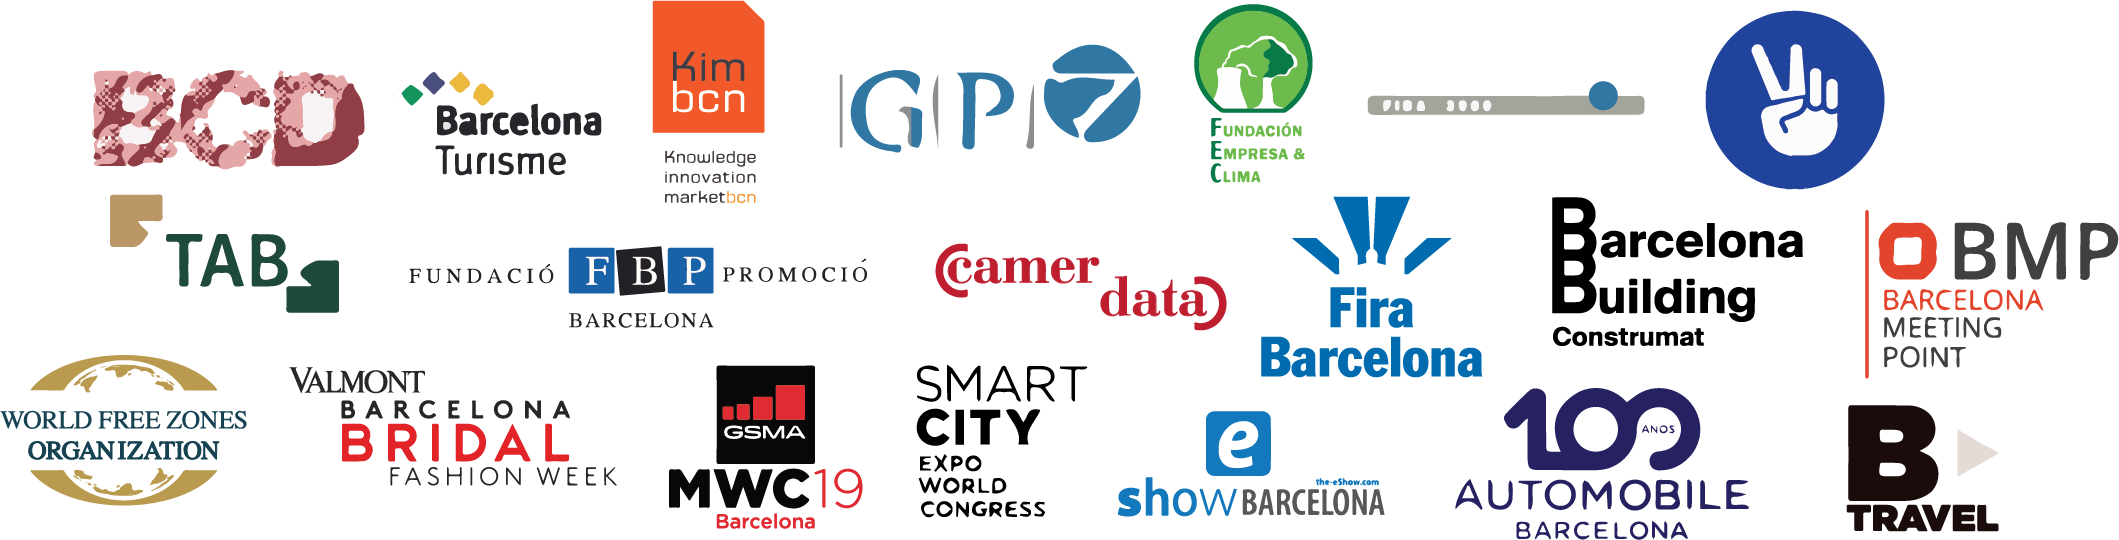
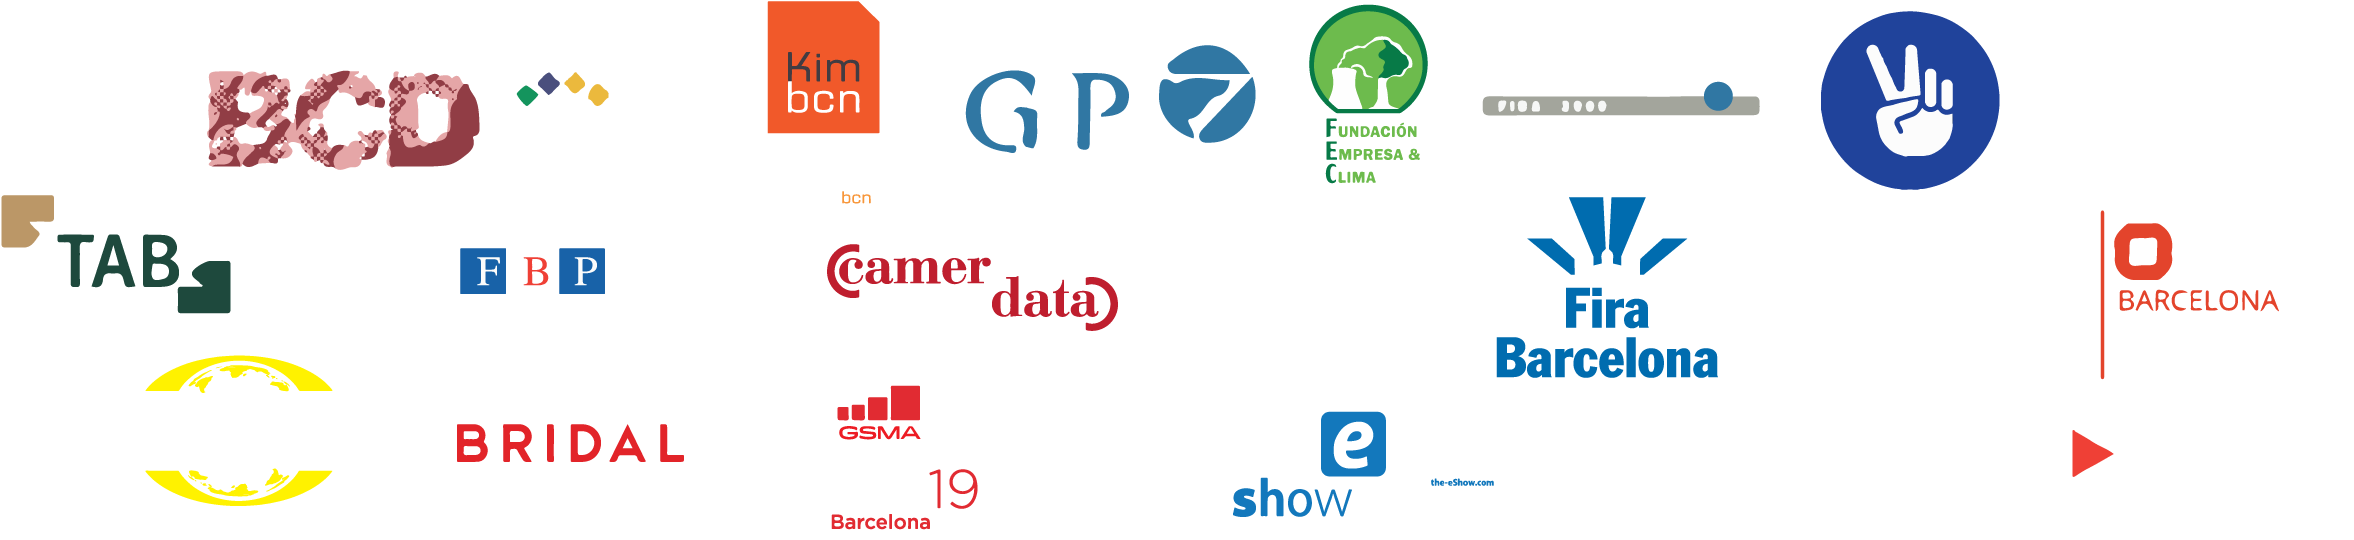
Working on spacing of elements

diff --git a/src/ofApp.cpp b/src/ofApp.cpp
@@ -45,30 +45,30 @@ void ofApp::setupAnimations(){
 	companiesAnimation = ImageAnimation(
 		companies,
 		glm::vec2(fixedWidth/2.0, fixedHeight - 120),
-		glm::vec2(800, 200),
+		glm::vec2(800, 184),
 		300
 	);
 	buildingLeftAnimation = ImageAnimation(
 		buildingLeft,
-		glm::vec2(520, 550),
-		glm::vec2(300, 280),
+		glm::vec2(515, 540),
+		glm::vec2(316, 296),
 		300
 	);
 	buildingRightAnimation = ImageAnimation(
 		buildingRight,
-		glm::vec2(1120, 570),
-		glm::vec2(300, 230),
+		glm::vec2(1085, 552),
+		glm::vec2(342, 262),
 		300
 	);
 	planeAnimation = ImageAnimation(
 		plane,
-		glm::vec2(800, 520),
-		glm::vec2(140, 45),
+		glm::vec2(150, 450),
+		glm::vec2(300, 95),
 		300
 	);
 	shipAnimation = ImageAnimation(
 		ship,
-		glm::vec2(1570, 180),
+		glm::vec2(1725, 700),
 		glm::vec2(300, 113),
 		300
 	);
@@ -77,28 +77,28 @@ void ofApp::setupAnimations(){
 	 */
 	buildingLeftText = TextTyping(
 		"Lorem ipsum dolor sit amet,\nconsectetur adipiscing elit,\nsed do eiusmod tempor\nincididunt ut labore et dolore\nmagna aliqua.",
-		glm::vec2(250, 450),
+		glm::vec2(690, 650),
 		ofColor(255),
 		10,
 		150
 	);
 	buildingRightText = TextTyping(
 		"Lorem ipsum dolor sit amet,\nconsectetur adipiscing elit,\nsed do eiusmod tempor\nincididunt ut labore et dolore\nmagna aliqua.",
-		glm::vec2(1350, 700),
+		glm::vec2(1300, 700),
 		ofColor(255),
 		10,
 		150
 	);
 	planeText = TextTyping(
 		"Lorem ipsum dolor sit amet,\nconsectetur adipiscing elit,\nsed do eiusmod tempor\nincididunt ut labore et dolore\nmagna aliqua.",
-		glm::vec2(820, 700),
+		glm::vec2(150, 590),
 		ofColor(255),
 		10,
 		150
 	);
 	shipText = TextTyping(
 		"Lorem ipsum dolor sit amet,\nconsectetur adipiscing elit,\nsed do eiusmod tempor\nincididunt ut labore et dolore\nmagna aliqua.",
-		glm::vec2(1320, 140),
+		glm::vec2(1590, 840),
 		ofColor(255),
 		10,
 		150
@@ -107,17 +107,17 @@ void ofApp::setupAnimations(){
 	 * ALL THE HAND MARKERS GO HERE
 	 */
 	// MILLENIUM FALCON
-	handMarkers[0] = HandMarker(glm::vec2(0, fixedHeight - 100), red, true);
-	// ABOVE THE COMPANIES
-	handMarkers[1] = HandMarker(glm::vec2(fixedWidth/3.0 - 80, fixedHeight - 200), red, false);
+	handMarkers[0] = HandMarker(glm::vec2(60, fixedHeight - 100), red, true);
+	// CENTER OF THE COMPANIES
+	handMarkers[1] = HandMarker(glm::vec2(fixedWidth/2.0 + 40, fixedHeight - 115), red, false);
 	// THE LEFT BUILDING
-	handMarkers[2] = HandMarker(glm::vec2(380, 380), red, true);
+	handMarkers[2] = HandMarker(glm::vec2(510, 550), red, true);
 	// THE RIGHT BUILDING
-	handMarkers[3] = HandMarker(glm::vec2(660, 460), red, true);
+	handMarkers[3] = HandMarker(glm::vec2(1100, 530), red, true);
 	// THE SHIP
-	handMarkers[4] = HandMarker(glm::vec2(1050, 125), red, true);
+	handMarkers[4] = HandMarker(glm::vec2(1705, 720), red, true);
 	// THE AIRPLANE
-	handMarkers[5] = HandMarker(glm::vec2(560, 300), red, true);
+	handMarkers[5] = HandMarker(glm::vec2(150, 470), red, true);
 }
 
 //--------------------------------------------------------------
